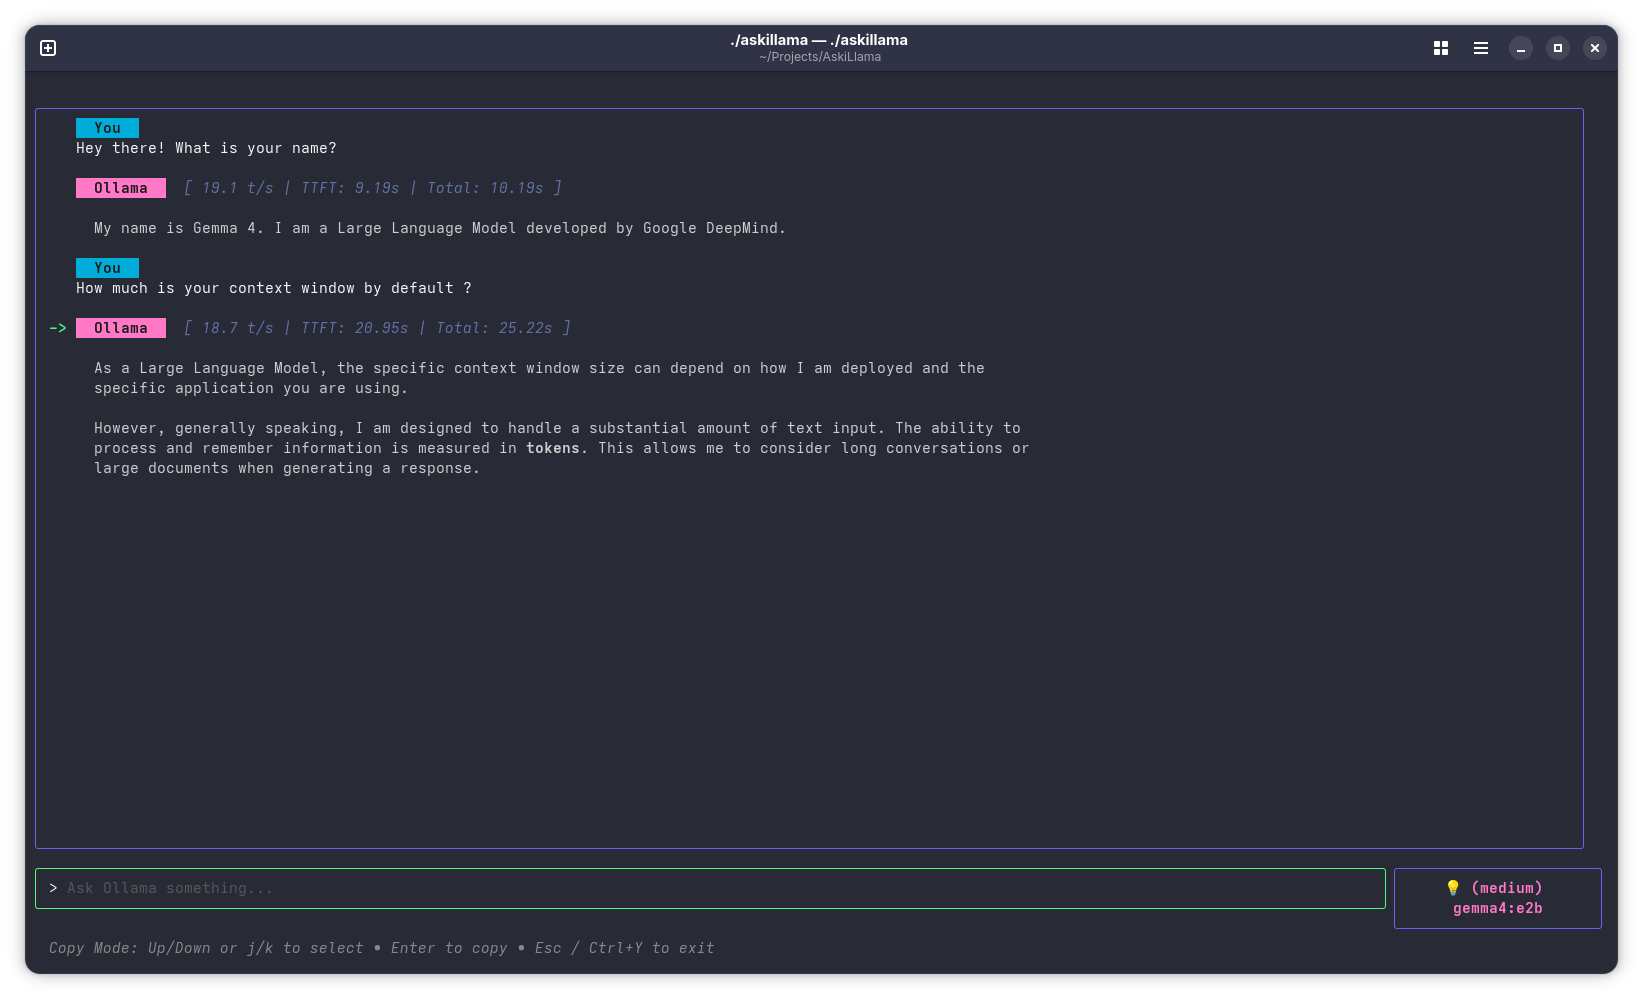
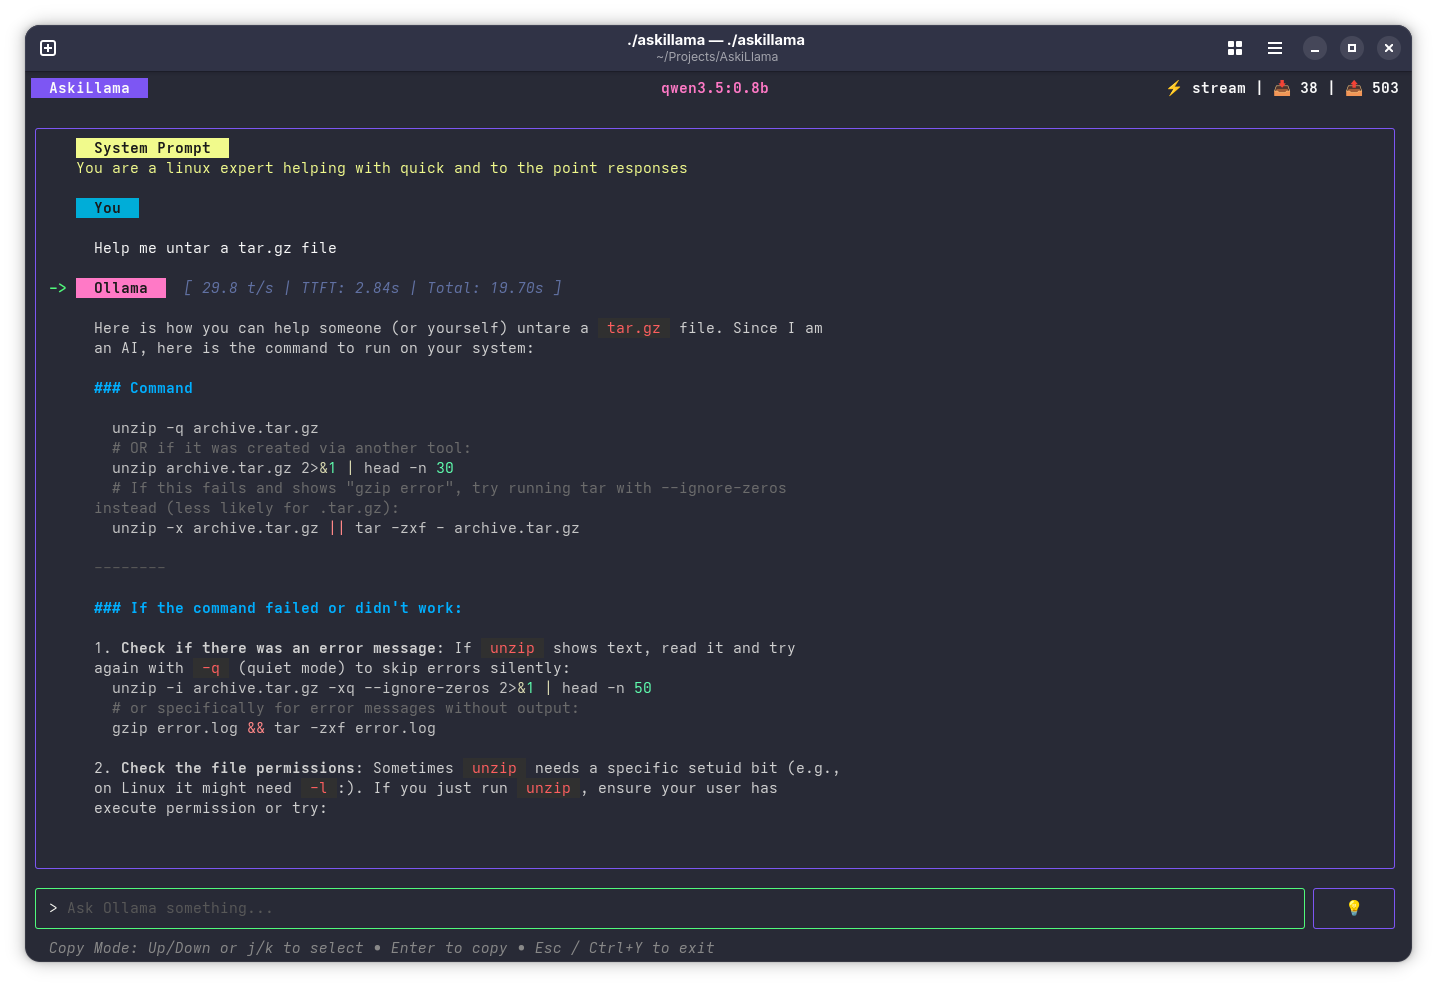
Fix copy mode and update assets

diff --git a/internal/ui/model.go b/internal/ui/model.go
@@ -291,6 +291,10 @@ func (m *Model) renderMessage(i int, innerWidth int) string {
 
 	var body string
 	if msg.Role == "assistant" {
+		// Ensure the render cache is initialized before indexing into it
+		if len(m.renderedMessages) != len(m.messages) {
+			m.renderedMessages = make([]string, len(m.messages))
+		}
 		// Use cached render when available; stream live for the last in-progress message
 		isStreaming := m.isResponding && i == len(m.messages)-1
 		if !isStreaming && m.renderedMessages[i] != "" {
@@ -1305,94 +1309,16 @@ func (m *Model) scrollToSelectedMessage() {
 		return
 	}
 
-	innerWidth := m.viewport.Width
-	if innerWidth < 10 {
-		innerWidth = 10
-	}
+	innerWidth := max(m.viewport.Width, 10)
 
+	// Count the lines rendered before the selected message
 	lineCountBefore := 0
-	selectedMessageLines := 0
-
-	for i, msg := range m.messages {
-		var labelText string
-		var labelStyle lipgloss.Style
-
-		switch msg.Role {
-		case "user":
-			labelText = " You "
-			labelStyle = userLabelStyle
-		case "system":
-			labelText = " System Prompt "
-			labelStyle = systemLabelStyle
-		default:
-			labelText = " Ollama "
-			labelStyle = assistantLabelStyle
-		}
-
-		roleLabel := labelStyle.Render(labelText)
-		if msg.Role == "assistant" && i < len(m.messagesMetrics) && m.messagesMetrics[i] != nil {
-			metrics := m.messagesMetrics[i]
-			metricsStr := fmt.Sprintf(" [ %s | TTFT: %s | Total: %s ]",
-				formatTPS(metrics.TokensPerSecond),
-				formatDuration(metrics.TimeToFirstToken),
-				formatDuration(metrics.TotalDuration),
-			)
-			roleLabel += " " + metricsStyle.Render(metricsStr)
-		}
-
-		if m.state == stateCopy {
-			if i == m.copyCursor {
-				roleLabel = lipgloss.NewStyle().Foreground(lipgloss.Color("#50FA7B")).Bold(true).Render("-> ") + roleLabel
-			} else {
-				roleLabel = "   " + roleLabel
-			}
-		}
-
-		labelWidth := lipgloss.Width(roleLabel)
-		contentWidth := innerWidth - labelWidth - 1
-		if contentWidth < 10 {
-			contentWidth = 10
-		}
-
-		content := strings.ReplaceAll(msg.Content, "\t", "    ")
-		if msg.Role == "assistant" && m.thinkSetting == "false" {
-			content = stripReasoning(content)
-		}
-
-		var wrappedContent string
-		if msg.Role == "assistant" {
-			if len(m.renderedMessages) != len(m.messages) {
-				m.renderedMessages = make([]string, len(m.messages))
-			}
-			isStreaming := m.isResponding && i == len(m.messages)-1
-			if !isStreaming && m.renderedMessages[i] != "" {
-				wrappedContent = m.renderedMessages[i]
-			} else {
-				renderer, err := glamour.NewTermRenderer(
-					glamour.WithStandardStyle("dark"),
-					glamour.WithWordWrap(contentWidth),
-				)
-				if err == nil {
-					if rendered, err := renderer.Render(content); err == nil {
-						wrappedContent = strings.TrimRight(rendered, "\n")
-						if !isStreaming {
-							m.renderedMessages[i] = wrappedContent
-						}
-					}
-				}
-			}
-		}
-
-		if wrappedContent == "" {
-			wrappedContent = lipgloss.NewStyle().Width(contentWidth).Render(content)
-		}
-
-		msgLines := 1 + strings.Count(wrappedContent, "\n")
-
+	for i := range m.messages {
+		rendered := m.renderMessage(i, innerWidth)
+		msgLines := strings.Count(rendered, "\n") + 1
 		if i < m.copyCursor {
-			lineCountBefore += msgLines + 2 // 2 is for \n\n separating messages
-		} else if i == m.copyCursor {
-			selectedMessageLines = msgLines
+			lineCountBefore += msgLines + 2 // +2 for the \n\n message separator
+		} else {
 			break
 		}
 	}
@@ -1400,10 +1326,12 @@ func (m *Model) scrollToSelectedMessage() {
 	viewportTop := m.viewport.YOffset
 	viewportBottom := m.viewport.YOffset + m.viewport.Height
 
+	// Scroll up if the message start is above the viewport
 	if lineCountBefore < viewportTop {
 		m.viewport.YOffset = lineCountBefore
-	} else if lineCountBefore+selectedMessageLines > viewportBottom {
-		m.viewport.YOffset = lineCountBefore + selectedMessageLines - m.viewport.Height
+		// Scroll down only enough to reveal the top of the message (where the arrow is)
+	} else if lineCountBefore >= viewportBottom {
+		m.viewport.YOffset = lineCountBefore
 	}
 
 	if m.viewport.YOffset < 0 {